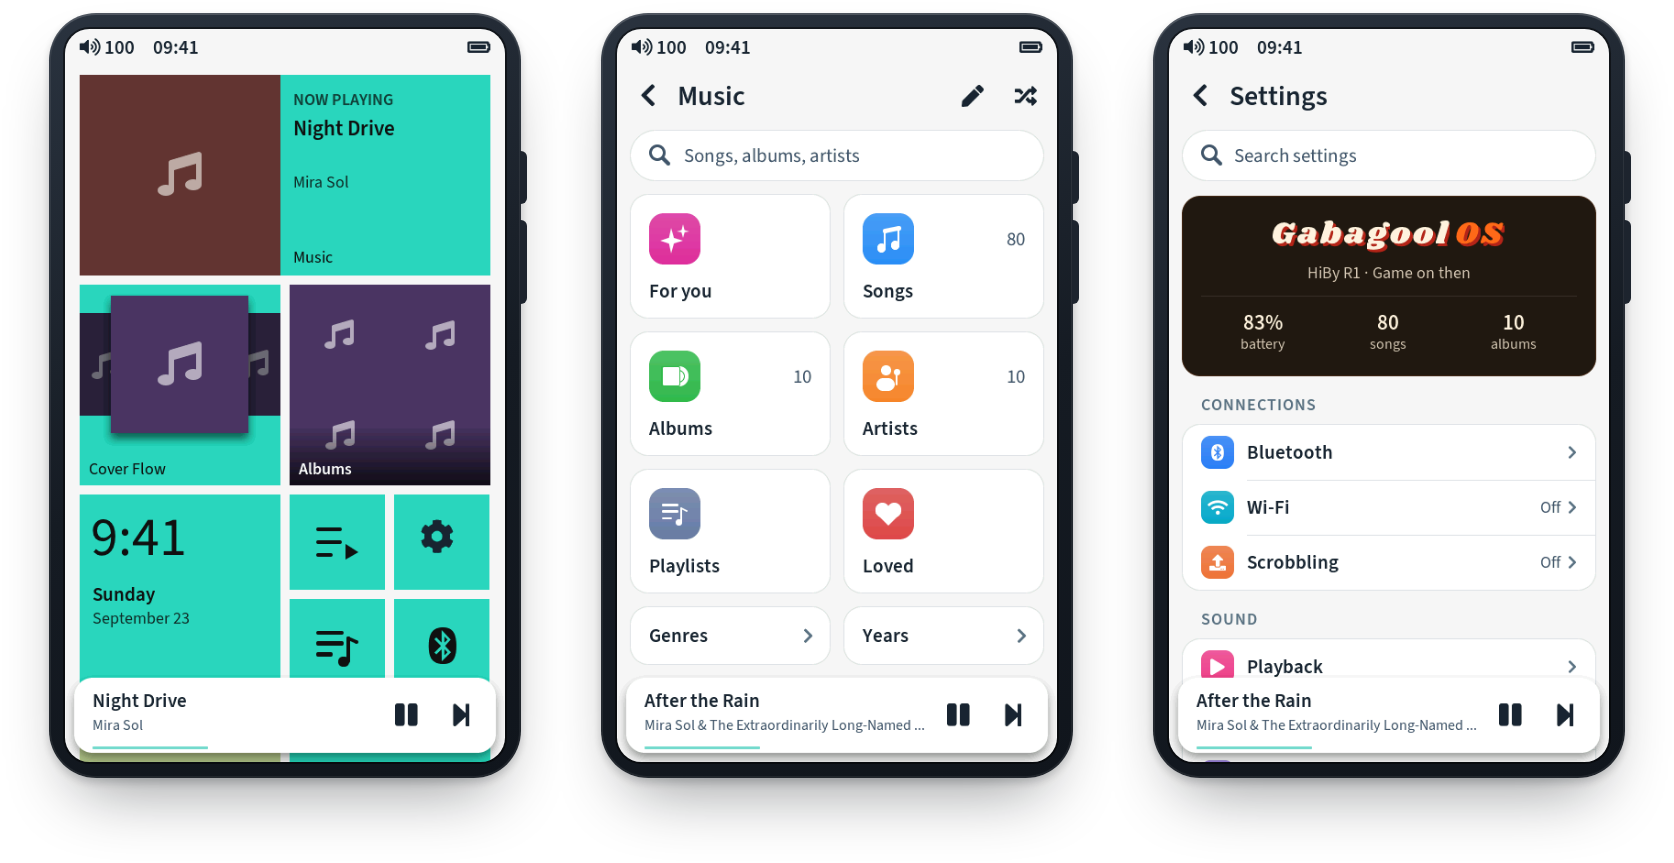
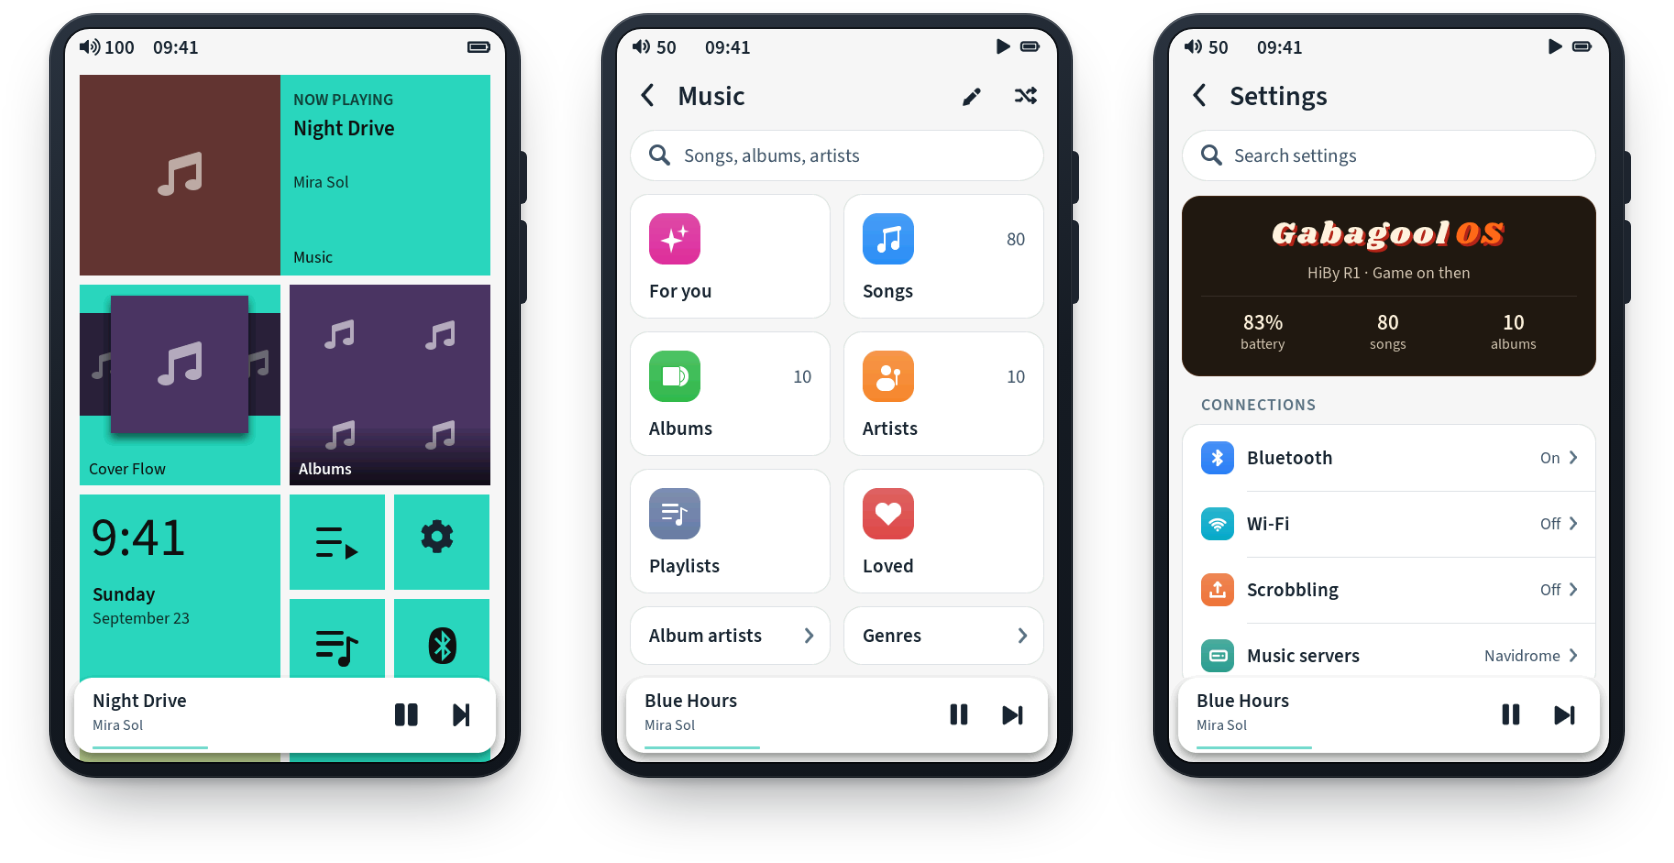
Front page: screenshots from the final 1.1 build, a New in 1.1 gallery

diff --git a/README.md b/README.md
@@ -48,6 +48,15 @@ its own test harness. No mock-ups. The covers are the harness's plain test art.
   <br><sub>Cards &nbsp;·&nbsp; Tiles &nbsp;·&nbsp; List, in the Zule theme</sub>
 </p>
 
+<h3 align="center">New in 1.1</h3>
+<p align="center">
+  <img src="assets/gallery-new.png" width="837" alt="Your taste: a deck of songs to swipe, with undo, skip, keep and love buttons; Now Playing with a waveform seek bar; a podcast's page with Play, Refresh and its episodes.">
+  <br><sub>Your taste &nbsp;·&nbsp; A waveform seek bar &nbsp;·&nbsp; Podcasts</sub>
+  <br><br>
+  <img src="assets/gallery-new2.png" width="837" alt="An album from a Navidrome server with Play and Shuffle; the e-book reader in its sepia look; arranging the control centre, with a handle to drag each shortcut and a cross to take it out.">
+  <br><sub>Your Navidrome server &nbsp;·&nbsp; The e-book reader &nbsp;·&nbsp; Arrange the control centre</sub>
+</p>
+
 <h3 align="center">Your music, first</h3>
 <p align="center">
   <img src="assets/gallery-music.png" width="837" alt="The Music menu with For you, Songs, Albums, Artists, Playlists, Loved, Genres and Years; the Songs list with an A to Z rail showing the letter M; an album page washed in its cover's colour, with Play and Shuffle.">
@@ -62,7 +71,7 @@ its own test harness. No mock-ups. The covers are the harness's plain test art.
 
 <h3 align="center">Settings and sound</h3>
 <p align="center">
-  <img src="assets/gallery-settings.png" width="837" alt="Settings as a grouped list with search; the parametric equalizer with a ten-band curve, preamp, auto level and an AutoEq headphone profile; the control centre with sixteen shortcuts and brightness and volume sliders.">
+  <img src="assets/gallery-settings.png" width="837" alt="Settings as a grouped list with search; the parametric equalizer with a ten-band curve, preamp, auto level and an AutoEq headphone profile; the control centre with its shortcuts, brightness and volume sliders and the playing song.">
   <br><sub>Settings &nbsp;·&nbsp; Parametric EQ with AutoEq &nbsp;·&nbsp; The control centre</sub>
 </p>
 
